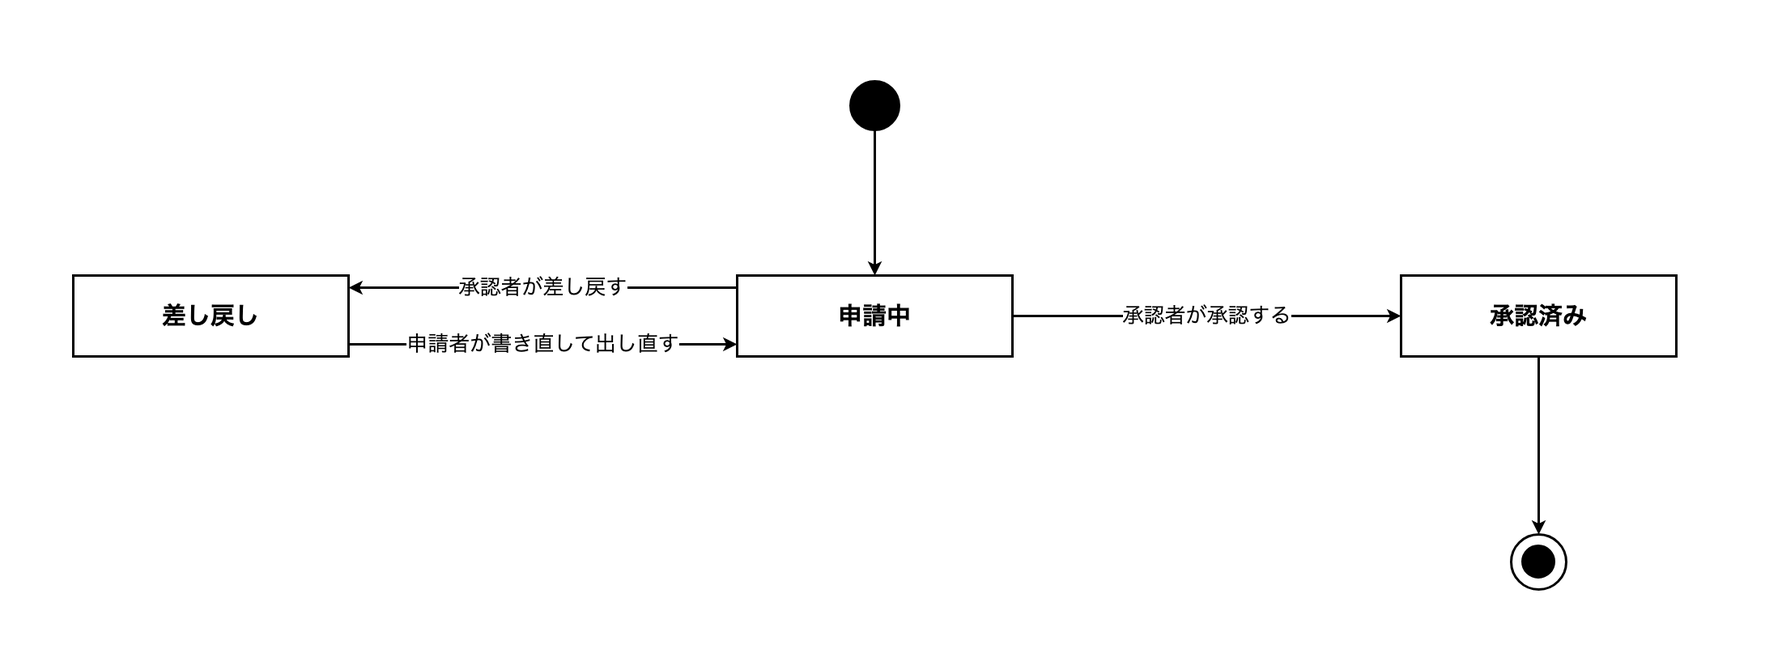
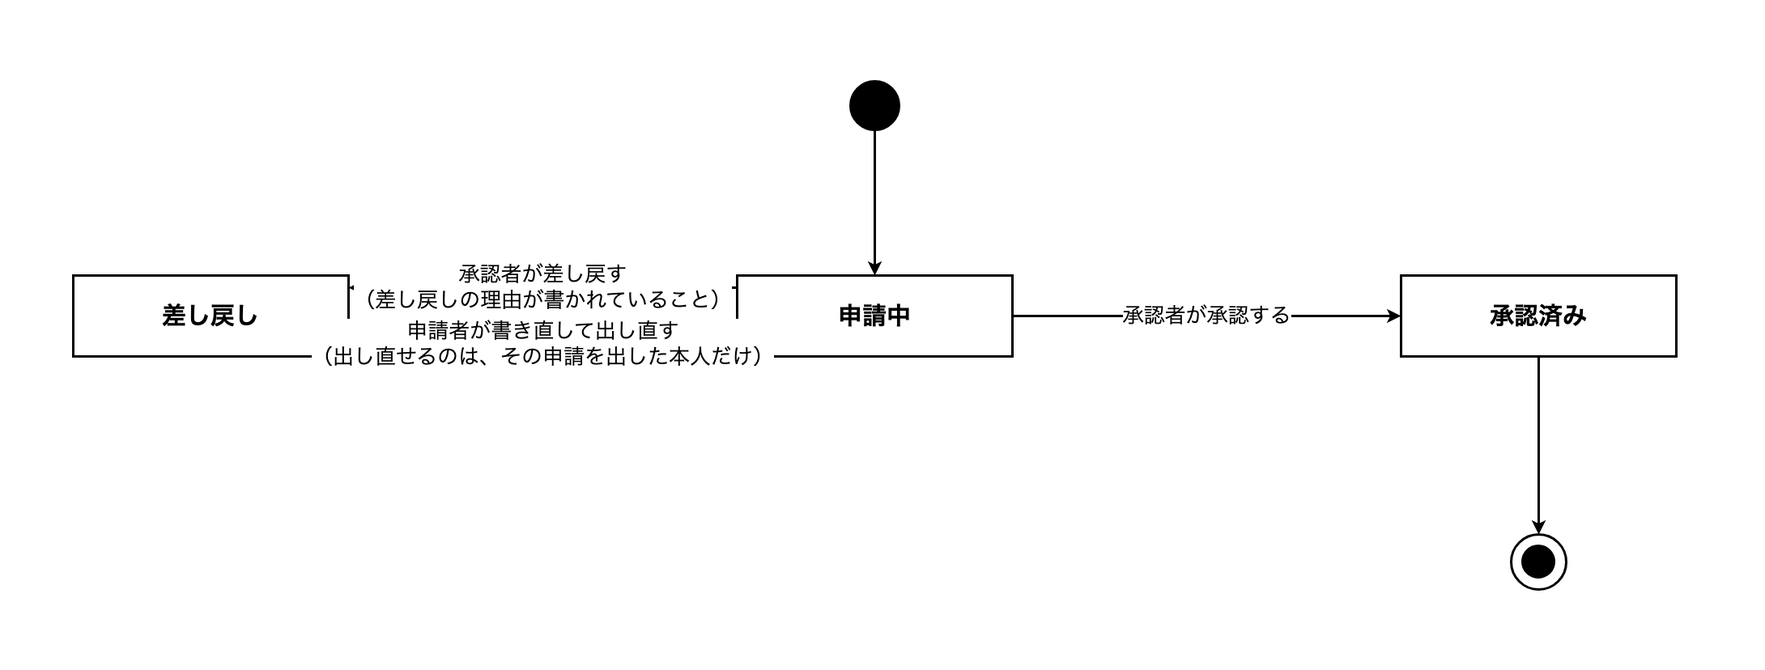
13, 15: 独立レビューの指摘49件を反映
6体（事実照合3・学習者役3）が実ファイルのみを根拠に検証した結果を反映した。
🔴4件・🟡25件・🔵20件のうち、実物と照合して指摘が正しかったものを直した。

🔴（受講生が実際に詰まるもの）:
- 13-3-2 が 13-3-1 の答えと矛盾していた。13-3-1 は画面を5枚と数えるのに
  13-3-2 が「ルートは5本ですが画面は5枚ではありません」と書いており、
  正しく5枚と数えた受講生が「間違っている」と言われる形だった。
  数の対比をやめ、集合の違い（ログイン・登録画面が抜け、PUT/DELETE は
  画面ではない）を言う文に差し替えた
- 13-7-1 の「app/ の中には5つのクラスがあります」が実物と違った
  （実際は28個）。描く手順と同じ3フォルダに範囲を限定した
- T15 の CLAUDE.md の見本と模範例に「投稿の作成」が入っていた。
  スターターに投稿作成機能は無い（ルートは index/edit/update/destroy の4本）
- 15-4-1 の `*` の説明が、リポジトリ内の実測記録と食い違っていた

🟡 の主なもの:
- 13-1-2 が予告する「モジュール構成図」が Chapter 7 に存在しなかった
  （実際は「構造図」）。呼び名を統一した
- 13-6-3 の確認事項リストの ID が Q-05 で、13-2-1 の解答例と衝突していた
  （Q-06 が正）
- 13-8-1 の TC-01 が「元になった設計書」に権限マトリクスを指していたが、
  その表にトップページの行は無い。13-3-1 の画面一覧 SC-01 に差し替えた
- 13-8-3 の模範ER図が「0件または1件」の記号を使っているのに、13-5-2 が
  教える記号は3つだけだった。テーブル定義書の approver_id に NOT NULL が
  無いことと整合するのは記号側なので、13-5-2 の記号表を4つに増やした
- 13-2-2 の 🏃 末尾に手描き方針の再掲が残っていた（散文形のため lint では
  検出されない）。削除した
- 13-5-4 の CRUD 表で F-05 のマスが U だったが、編集画面は今の値を読むので
  R・U が正しい

図2枚を再生成（13-5-2_3 に4つ目の記号、13-8-3_3 の矢印に条件を追加）。

事実照合で一致を確認できたものも多い: routes/web.php の5本、PostController
の4メソッド、PostPolicy の判定、posts の7列、config/fortify.php の home と
resetPasswords、シードの値、Blade のリンクとボタン、図の矢印本数、他 Tutorial
への参照19件の実在と見出し名。導入の第1段落が前節の要約になっている節はゼロ。

T13・T14・T15 の全57節で lint 🔴🟡 ともゼロ。

Changed region(s): [[0.1872, 0.3925, 0.4367, 0.5435]]

diff --git a/curriculums/tutorial-13: システム設計を学ぼう📐/chapter-5: データ設計/13-5-2_ER図と正規化.md b/curriculums/tutorial-13: システム設計を学ぼう📐/chapter-5: データ設計/13-5-2_ER図と正規化.md
@@ -49,6 +49,7 @@
 | 線端の縦二重線 | その端がちょうど1件（1の側） |
 | 線端の丸と三又 | その端が0件以上（多の側） |
 | 線端の縦線と三又 | その端が1件以上（多の側で、0件を許さないとき） |
+| 線端の縦線と丸 | その端が0件または1件（1の側で、相手を指す列が空のことがあるとき） |
 | 線に添えた文 | 両端が何件ずつなのかを、日本語の1文で言い直したもの |
 
 四角の中に書くのは、テーブル名だけです。カラム名も型も書きません。13-3-2で画面遷移図の四角にIDを書かないのと同じで、図に情報を詰めるほど、見たいものが見えなくなります。この図はつながり方を見るためのもので、カラムを書き出すのはテーブル定義書の役目です。
@@ -57,7 +58,7 @@
 
 1. エンティティ一覧の行数ぶん、四角を置きます。中には英語のテーブル名を入れます。日本語のエンティティ名を英語にして複数形にしたものですが、付け方は13-5-3で決めるので、ここでは手を止めずに置いてください。英単語が出てこないときは、辞書や翻訳ツールで調べて構いません。AIに「レッスンは英語で何と言いますか」と聞くのも、言葉についての質問なので問題ありません。
 2. 関係の一覧の行数ぶん、線を引きます。**「1」の側の四角を左（または上）に置く**と、図と表の並びが揃って読みやすくなります。
-3. 引いた線の両端に、記号を付けます。「1」の側が縦の二重線、「多」の側が三又です。三又は、0件があり得るなら丸の付いたもの、1件以上と決めているなら縦線の付いたものを選びます。13-5-1の手順3で「複数の」と「1つ以上の」を書き分けたのが、そのまま記号の選び分けになります。操作は次の「draw.ioで線端の記号を選ぶ」のとおりです。
+3. 引いた線の両端に、記号を付けます。「1」の側が縦の二重線、「多」の側が三又です。三又は、0件があり得るなら丸の付いたもの、1件以上と決めているなら縦線の付いたものを選びます。13-5-1の手順3で「複数の」と「1つ以上の」を書き分けたのが、そのまま記号の選び分けになります。「1」の側で、相手を指す列が空のままになる場面があるなら、縦線と丸を選びます。操作は次の「draw.ioで線端の記号を選ぶ」のとおりです。
 4. 線に、13-5-1の関係の一覧の「読み方」の欄の1文を書き入れます。文が長くて図が読みにくいときは、「1回のレッスンに、複数の申し込み」のように短くしても構いません。ただし、`1対多` とだけ書くのは避けてください。
 5. 多対多の行があれば、その2つの四角の間につなぎ役の四角を1つ置き、両側へ1対多の線を2本引き直します。8-3-3で学んだとおり、多対多の関係は2つの1対多に分けて表します。線に書く文も、「1人の講師は、複数のレッスンとの組を持つ」のように、つなぎ役を相手にした形に書き直します。この四角は13-5-1のエンティティ一覧に行がありませんが、テーブル1つとして数えます。
 
@@ -81,13 +82,13 @@
 
 **手順3: 記号の一覧から選ぶ**
 
-ボタンを押すと、端の形の一覧が開きます。長い一覧で、矢印や丸が上のほうに並び、ER図用の記号は下のほうにあります。この教材で使うのは、次の3つです。
+ボタンを押すと、端の形の一覧が開きます。長い一覧で、矢印や丸が上のほうに並び、ER図用の記号は下のほうにあります。この教材で使うのは、次の4つです。
 
-**ER図で使う3つの記号**
+**ER図で使う4つの記号**
 
 <img alt="13-5-2_3.png" src="../../../image/13-5-2_3.png">
 
-> 💡 **TIP**: 一覧には、縦線が1本だけのものや、丸だけのものも並んでいます。使うのは上の3つだけです。線を引いた向きと記号を付けたい側が食い違ったときは、左右のボタンを入れ替えて選び直してください。
+> 💡 **TIP**: 一覧には、縦線が1本だけのものや、丸だけのものも並んでいます。使うのは上の4つだけです。線を引いた向きと記号を付けたい側が食い違ったときは、左右のボタンを入れ替えて選び直してください。
 
 ---
 
@@ -254,7 +255,7 @@ public function category(): BelongsTo
 ## ✨ まとめ
 
 - ER図は、関係の一覧を1枚に置き直した図です。四角の数はエンティティ一覧の行数と、線の数は関係の一覧の行数と一致します。
-- 四角の中に書くのはテーブル名だけです。線は向きを持たず、両端の記号で件数を表します。縦の二重線がちょうど1件、丸の付いた三又が0件以上、丸の付いていない三又が1件以上です。
+- 四角の中に書くのはテーブル名だけです。線は向きを持たず、両端の記号で件数を表します。縦の二重線がちょうど1件、丸の付いた三又が0件以上、丸の付いていない三又が1件以上、縦線と丸が0件または1件です。
 - draw.ioでは、線を選んで「スタイル」タブの端のボタンを押すと、ER図用の記号を選べます。記号と、日本語の1文の両方を付けます。
 - 多対多は、つなぎ役の四角を1つ置いて、2本の1対多に分けて描きます。この四角は、エンティティ一覧に行がなくてもテーブルとしては必要です。
 - 属性は3つの問いで点検します。通らなかったところは、エンティティの分け方に戻って直します。この観点は、13-5-5のセルフチェックでもう一度使います。

diff --git a/curriculums/tutorial-13: システム設計を学ぼう📐/chapter-8: テスト設計と総合演習/13-8-1_テスト設計-設計の検証としてのテスト.md b/curriculums/tutorial-13: システム設計を学ぼう📐/chapter-8: テスト設計と総合演習/13-8-1_テスト設計-設計の検証としてのテスト.md
@@ -139,7 +139,7 @@
 - 「必須」の欄に必須と書いてある項目からは、その項目を空のまま、または選ばずに送ると受け付けられない、という異常系が1行出ます。部署のTC-05と満足度のTC-10がこれです。
 - 「必須」の欄に任意と書いてある項目からは、空のまま送っても受け付けられる、という正常系が1行出ます。氏名のTC-02と感想のTC-11がこれです。
 - 「文字数・桁数」の欄や「形式・値の範囲」の欄に、受け付ける数の範囲が決めてある項目からは、境界値が2行出ます。氏名のTC-03とTC-04、感想のTC-06とTC-07がこれです。
-- 「形式・値の範囲」の欄に、数ではない決めごとが書いてある項目からは、その形から外れた値を送ると受け付けられない、という異常系が1行出ます。部署と満足度は一覧から選ぶ形なので、画面から操作するかぎり一覧の外は送れません。満足度の「1から5」も、5つの選択肢を並べたものなので、境界値は起こしません。上の表で部署と満足度の行が1行ずつなのは、そのためです。
+- 「形式・値の範囲」の欄に、数ではない決めごとが書いてある項目からは、その形から外れた値を送ると受け付けられない、という異常系が1行出ます。部署と満足度は一覧から選ぶ形なので、画面から操作するかぎり一覧の外は送れません。満足度の「1から5」も、5つの選択肢を並べたものなので、境界値は起こしません。この丸から出る行はありません。上の表にある部署のTC-05と満足度のTC-10は、1つ目の丸から出た行です。
 - 「ほかの項目との関係」の欄に決めごとが書いてある項目は、その関係が守られなかった場合が例外一覧にも現れるので、次の手順3で拾います。
 
 氏名のように2つの欄に決めごとがある項目からは、合わせて3行出ます。
@@ -215,7 +215,7 @@ public function test_the_application_returns_a_successful_response(): void
 
 トップページ（`/`）を開くと、正常を表す `200` が返ることを見ています。ログインしないまま開いていることが、この1本の要点です。もう1つの `tests/Unit/ExampleTest.php` のほうは `assertTrue(true)` だけで、アプリについては何も見ていません。
 
-これを観点表の1行目にしてください。区分は正常系です。「元になった設計書」の欄には、13-4-2で作った権限マトリクスのうち、ログインしていない相手が何を見られるかを決めたところを指す言葉を書きます。
+これを観点表の1行目にしてください。区分は正常系です。「元になった設計書」の欄には、13-3-1で作った画面一覧のうち、トップ画面の行を指す言葉を書きます。ログインしていない人にこの画面が何を見せるのかは、その行の役割の欄が決めています。
 
 このアプリに配られているテストは、これで全部です。新規登録についても、投稿の編集についても、自動で確かめているものは1つもありません。
 
@@ -297,7 +297,7 @@ git push
 
 | ID | 何を確かめるか | 区分 | 元になった設計書 |
 |:---|:---------------|:-----|:-----------------|
-| TC-01 | ログインしていなくても、トップページが開ける | 正常系 | 権限マトリクスの、ログインしていない相手の欄 |
+| TC-01 | ログインしていなくても、トップページが開ける | 正常系 | 画面一覧の SC-01 の行 |
 | TC-02 | 名前・メールアドレス・パスワードをすべて入れて登録すると、ユーザーが1件増える | 正常系 | `CreateNewUser.php` の入力の決めごと |
 | TC-03 | 名前を空のまま登録しようとすると、登録されない | 異常系 | `CreateNewUser.php` の `name` の必須 |
 | TC-04 | 名前が255文字なら、登録される | 境界値 | `CreateNewUser.php` の `name` の上限 |
@@ -349,7 +349,7 @@ TC-02からTC-08までの欄には、設計書の名前が1つも入っていま
 
 **トップページの1行を残した理由**
 
-配られたテストが確かめている唯一のことなので、観点表から落とすと「いま何が確かめられているか」が表から消えます。この行だけは、手元の権限マトリクスを指せます。
+配られたテストが確かめている唯一のことなので、観点表から落とすと「いま何が確かめられているか」が表から消えます。この行だけは、手元の設計書を指せます。13-4-2で作った権限マトリクスには、トップページにあたる行がありません。ログインしていない人がこの画面で何を見るのかを決めているのは、13-3-1で作った画面一覧の SC-01 の役割の欄です。
 
 </details>
 

diff --git a/curriculums/tutorial-13: システム設計を学ぼう📐/chapter-4: APIと権限の設計/13-4-1_API設計-エンドポイントと入出力.md b/curriculums/tutorial-13: システム設計を学ぼう📐/chapter-4: APIと権限の設計/13-4-1_API設計-エンドポイントと入出力.md
@@ -26,7 +26,7 @@
 >
 > 講師がその日の授業ごとに出欠を登録できて、事務が登録された記録をまとめて見られて、保護者の方にはご自分のお子さんの記録をご覧いただける。そんな仕組みにしたいです。
 
-画面設計までは済んでいるとします。講師は、その日の授業が並ぶ画面から授業を1つ選び、出席予定の生徒に出欠を付けます。付けたあとの出欠は、同じ画面で選び直して保存できます。事務と保護者は、それぞれ記録を見る画面を開きます。ここから起こしたエンドポイント一覧が、次の表です。
+画面設計までは済んでいて、画面は授業一覧画面・出欠登録画面・出欠記録画面の3枚です。講師は、その日の授業が並ぶ授業一覧画面から授業を1つ選び、出欠登録画面で出席予定の生徒に出欠を付けます。付けたあとの出欠は、同じ画面で選び直して保存できます。事務と保護者は、それぞれ出欠記録画面を開きます。ここから起こしたエンドポイント一覧が、次の表です。
 
 | ID | メソッド | エンドポイント | 何をするか | 認証 |
 |:---|:---------|:---------------|:-----------|:-----|
@@ -92,7 +92,7 @@
 1. この画面を映すために、どこかから取りに行くものはあるか。
 2. この画面から、どこかへ送るものはあるか。
 
-学習塾の例なら、講師が最初に開く画面の授業の一覧（API-01）と、選んだ授業の出席予定の生徒（API-02）が取りに行くもので、出欠の保存（API-03）と、付けたあとの訂正（API-04）が送るものです。事務と保護者が開く記録を見る画面にも、取りに行くものが1つあります（API-05）。
+学習塾の例なら、授業一覧画面が取りに行くのは、その日の授業の一覧（API-01）です。出欠登録画面は、出席予定の生徒を取りに行き（API-02）、付けた出欠（API-03）と、付けたあとの訂正（API-04）を送ります。事務と保護者が開く出欠記録画面にも、取りに行くものが1つあります（API-05）。画面は3枚でも、入口は5つになります。
 
 この問いを飛ばして数え始めると、画面には映っているのに取りに行く先が決まっていない項目が残ります。実装が始まってから「この一覧はどこから来るのですか」と聞かれる箇所です。
 
@@ -160,9 +160,11 @@
 
 コードを読むだけなので、Dockerは起動しなくて構いません。VS Codeで `~/laravel-practice/post-app-practice` を開いて始めてください。
 
-### Step 1: ルートを読んで、入口を数える
+### Step 1: 画面をたどってから、ルートを読む
 
-`routes/web.php` を開きます。
+先に、13-3-2で描いた投稿アプリの画面遷移図を開きます。四角を1つずつたどり、書き方の手順1の2つの問いを投げて、「取りに行くもの」と「送るもの」に印を付けてください。
+
+印が付いたら、`routes/web.php` を開きます。
 
 ```php
 // routes/web.php
@@ -185,11 +187,15 @@ Route::middleware('auth')->group(function () {
 
 13-2-1で確かめたとおり、ログインと新規登録のルートはこのファイルに書かれていません。Fortifyが登録しているものです。この2つはエンドポイント一覧にも載せません。どうやってログインしてもらうのかという方式を、この教材では決めないからです。
 
+最後に、画面遷移図に付けた印と、この4本を突き合わせてください。
+
 ### Step 2: エンドポイント一覧に組み替える
 
 4本を、`ID`・`メソッド`・`エンドポイント`・`何をするか`・`認証` の5列に組み替えます。IDは `API-01` から振ります。
 
 1本だけ、そのまま写せない行があります。`GET /posts/{post}/edit` は、編集画面のHTMLを返すためのルートです。APIには画面がないので、「編集画面を出す」という書き方はできません。この入口が本当は何のためにあるのかを、`PostController` の `edit()` を読んで考えてください。
+
+`edit()` が編集画面へ渡しているものは、投稿1件だけではありません。Step 1で画面遷移図に付けた印と見比べて、渡しているもう1つを、APIに作り直したあとはどこから取りに行くのかも確かめてください。
 
 「認証」の欄は、Step 1で見たルートの書かれ方から4行とも決まります。
 

diff --git a/curriculums/tutorial-13: システム設計を学ぼう📐/chapter-5: データ設計/13-5-4_CRUD表.md b/curriculums/tutorial-13: システム設計を学ぼう📐/chapter-5: データ設計/13-5-4_CRUD表.md
@@ -107,7 +107,7 @@ Chapter 2で作った機能一覧の機能名を、IDごとそのまま写しま
 
 列は、13-5-1で作ったエンティティ一覧の3行（ユーザー・カテゴリ・投稿）です。日本語のままにします。
 
-マスを埋めるときの手がかりは、コントローラーにあります。`app/Http/Controllers/PostController.php` の4つのメソッドを開いて、どのモデルを呼んでいるかを見てください。ユーザー登録・ログイン・ログアウトの処理はこのファイルにありませんが、それぞれ何と照合し、何を作るのかを考えれば、触るデータは決まります。
+マスを埋めるときの手がかりは、コントローラーにあります。`app/Http/Controllers/PostController.php` の4つのメソッドを開いて、どのモデルを呼び、どのモデルを画面へ渡しているかを見てください。ユーザー登録・ログイン・ログアウトの処理はこのファイルにありませんが、それぞれ何と照合し、何を作るのかを考えれば、触るデータは決まります。
 
 ### Step 3: 縦に読んで、空を探す
 
@@ -135,7 +135,7 @@ git push origin main
 | F-02 ログイン | R | - | - |
 | F-03 ログアウト | - | - | - |
 | F-04 投稿の一覧表示 | R | R | R |
-| F-05 投稿の編集 | - | R | U |
+| F-05 投稿の編集 | - | R | R・U |
 | F-06 投稿の削除 | - | - | D |
 
 F-04でユーザーとカテゴリをRにしている根拠は、一覧を組み立てているこの1行です。
@@ -147,14 +147,20 @@ $posts = Post::with(['user', 'category'])->latest()->get();
 
 `with(['user', 'category'])` と書かれているとおり、投稿と一緒にユーザーとカテゴリも読んでいます。画面には投稿者の名前とカテゴリの名前が出るので、9-5-3「Eager Loadingとレイジーローディング」で学んだこの書き方で、まとめて取ってきています。
 
-F-05でカテゴリをRにしている根拠は、編集画面を出すこの1行です。
+F-05で投稿とカテゴリの両方をRにしている根拠は、編集画面を出す `edit()` です。
 
 ```php
 // app/Http/Controllers/PostController.php の edit() から抜粋
-$categories = Category::orderBy('id')->get();
+public function edit(Post $post)
+{
+    // ...
+    $categories = Category::orderBy('id')->get();
+
+    return view('posts.edit', compact('post', 'categories'));
+}
 ```
 
-カテゴリのプルダウンに選択肢を並べるために、カテゴリを全件読んでいます。
+カテゴリを全件読んでいるのは、プルダウンに選択肢を並べるためです。投稿のほうも、いま入っているタイトルと本文を編集画面に映すために、`view()` へ渡しています。どちらも画面に出すための読みなので、Rに数えます。書き換える相手を探すためだけの読みではありません。
 
 **表の下に書く2〜3文（解答例）**
 
@@ -175,7 +181,7 @@ $categories = Category::orderBy('id')->get();
 
 **投稿にCが無いのが、間違いではない理由**
 
-`routes/web.php` に並んでいるのは、一覧・編集画面・更新・削除の4本だけです。投稿を作るルートがありません。表示されている4件は、`database/seeders/DatabaseSeeder.php` があらかじめ入れたものです。このアプリは認可（Policy）の練習のために配られたもので、作る機能を省くと最初から決まっていました。CRUD表は間違い探しの表ではないので、Cが無いこと自体は問題になりません。実際の仕事でこの表を作れば、「投稿を書く画面はどこですか」という質問が、実装が始まる前に1回で出てきます。それが目的です。
+`routes/web.php` の投稿に関するルートは、一覧・編集画面・更新・削除の4本だけです。投稿を作るルートがありません。表示されている4件は、`database/seeders/DatabaseSeeder.php` があらかじめ入れたものです。このアプリは認可（Policy）の練習のために配られたもので、作る機能を省くと最初から決まっていました。CRUD表は間違い探しの表ではないので、Cが無いこと自体は問題になりません。実際の仕事でこの表を作れば、「投稿を書く画面はどこですか」という質問が、実装が始まる前に1回で出てきます。それが目的です。
 
 **カテゴリにRしか無い理由**
 

diff --git a/curriculums/tutorial-15: AI開発を仕組み化しよう⚙/chapter-2: プロジェクトの記憶（CLAUDE.md）/15-2-2_育て方と刈り方-長すぎると守られなくなる.md b/curriculums/tutorial-15: AI開発を仕組み化しよう⚙/chapter-2: プロジェクトの記憶（CLAUDE.md）/15-2-2_育て方と刈り方-長すぎると守られなくなる.md
@@ -67,14 +67,17 @@
 
 刈り方の前に、足し方も決めておきます。思いついた順に足すと、太るのはあっという間です。
 
-足したいことができたときは、ファイルを開いて自分で書きます。書き足す引き金は、次の2つだけにしてください。公式ドキュメントが挙げているものと同じで、下の2つ目は、15-1-1「毎回手でやっていたこと」で `CLAUDE.md` を行き先にした「このアプリの前提」がまさにそれです。
+足したいことができたときは、ファイルを開いて自分で書きます。書き足す引き金は、次の3つだけにしてください。上の2つは公式ドキュメントが挙げているものと同じで、2つ目は、15-1-1「毎回手でやっていたこと」で `CLAUDE.md` を行き先にした「このアプリの前提」がまさにそれです。
 
 | 引き金 | 足す1行 |
 |:--|:--|
 | 同じ間違いを**2回目**にされた | その間違いを防ぐ決めごとを1行 |
 | 前のセッションで打った説明を、また打っている | その説明を1行 |
+| `/clear` したAIに聞いて、答えが返ってこなかった | 答えの根拠になる決めごとを1行 |
 
-1回目では足しません。1回きりのことは、次に起きるとは限らないからです。2回目に起きたことは、3回目も起きます。ここが線です。
+上の2つでは、1回目では足しません。1回きりのことは、次に起きるとは限らないからです。2回目に起きたことは、3回目も起きます。ここが線です。
+
+3つ目は、入り方が上の2つと違います。間違えられるのを待たずに、書き漏らしのほうを先に見つけます。書いたつもりの決めごとが本当に書いてあるかは、`/clear` を打ってから聞けば分かります（15-2-3）。
 
 足すときに、もう1つ守ることがあります。**古い行を消してから、新しい行を足す**。⑥で見たとおりです。「日本語にする」と決め直したなら、「英語のままでよい」の行はその場で消します。
 
@@ -108,7 +111,7 @@
 # CLAUDE.md
 
 投稿管理アプリです。Laravel を Sail（Docker）で動かしています。
-投稿の一覧・作成・編集・削除、投稿へのコメントができます。
+投稿の一覧・編集・削除、投稿へのコメントができます。
 いま `posts.status`（下書きと公開）の移行作業中です。移行が終わるまで、投稿一覧の並び順は触らないでください。
 
 ## このプロジェクトについて
@@ -264,7 +267,7 @@ php artisan test                                     # テストを実行する
 # CLAUDE.md
 
 投稿管理アプリです。Laravel を Sail（Docker）で動かしています。
-投稿の一覧・作成・編集・削除、投稿へのコメント、下書きと公開の切り替えができます。
+投稿の一覧・編集・削除、投稿へのコメント、下書きと公開の切り替えができます。
 機能ごとの設計書は `docs/` の中にあります（例: `docs/comment.md`）。
 
 ## よく使うコマンド
@@ -332,7 +335,7 @@ php artisan test                                     # テストを実行する
 - `CLAUDE.md` は長さに関係なく最後まで読まれます。長いと守られにくくなるのは、大事なルールが埋もれるからです。
 - 2026年8月時点の公式ドキュメントでは、200行以下が目安とされています。超えたら壊れる線ではなく、従われにくくなる目安です。
 - 消すかどうかは「この1行を消したら、AIは間違えますか」で決めます。迷ったら、いつの話か・コードを開けば分かるか・他の紙にも書いてあるかを当てます。
-- 足すのは、同じ間違いを2回目にされたときと、前のセッションで打った説明をまた打っているときだけです。
+- 足す引き金は3つです。同じ間違いを2回目にされたとき、前のセッションで打った説明をまた打っているとき、`/clear` したAIが答えられなかったときです。
 - 食い違う行を2つ並べません。新しい行を足すときは、古い行をその場で消します。
 
 ---

diff --git a/curriculums/tutorial-13: システム設計を学ぼう📐/chapter-3: 画面設計/13-3-1_画面一覧.md b/curriculums/tutorial-13: システム設計を学ぼう📐/chapter-3: 画面設計/13-3-1_画面一覧.md
@@ -120,7 +120,7 @@ Route::middleware('auth')->group(function () {
 
 5つのBladeファイルを順に開き、`<h1>` の文字と、その下に並んでいるものを読み取ります。役割の欄に書く1文の材料になります。
 
-`welcome.blade.php` だけは、`@auth` と `@else` で中身が2つに分かれています。ログインしている人に映るものと、していない人に映るものが、1つのファイルの中に両方書かれています。この画面を何行として数えるかは、自分で決めてください。決めた理由を言えるようにしておくと、答え合わせで見比べられます。
+`welcome.blade.php` だけは、`@auth` と `@else` で中身が2つに分かれています。ログインしている人に映るものと、していない人に映るものが、1つのファイルの中に両方書かれています。この画面は1行として数えます。開くURLも画面ファイルも1つで、利用者から見れば同じ画面の中身が入れ替わっているだけだからです。役割の欄には、両方の中身を書きます。
 
 ### Step 2: 画面一覧を作る
 
@@ -169,11 +169,12 @@ git push origin main
 - [ ] どの行にも役割が1文で書かれている
 - [ ] IDが `SC-01` から順に振られている
 - [ ] 最初に開く画面が1つ決まっていて、役割の欄に書き添えられている
-- [ ] `/posts` への `PUT` と `DELETE` を、画面として数えていない
+- [ ] `/posts/{post}` への `PUT` と `DELETE` を、画面として数えていない
 
-設計に唯一の正解はありません。画面名の付け方や並び順が解答例と違っていても、上の観点を満たしていれば合格です。そのうえで、判断が分かれやすい3点を補足します。
+設計に唯一の正解はありません。画面名の付け方や並び順が解答例と違っていても、上の観点を満たしていれば合格です。そのうえで、判断が分かれやすい4点を補足します。
 
-- **トップ画面を1行にした理由**: `@auth` と `@else` で映るものは変わりますが、開くURLは `/` の1本で、画面ファイルも1つです。利用者から見ても、同じ画面の中身が入れ替わっているだけです。そこで1行にまとめ、役割の欄に両方の中身を書きました。2行に分ける設計もあり得ますが、その場合は、どちらを最初に開く画面にするかを決め直すことになります。
+- **「トップ画面」という名前にした理由**: 書き方の手順2では「トップ」「ホーム」のような名前を避けると書きました。この画面は `@auth` で映るものが入れ替わるので、何が映るかを一語で言い表せません。そこだけ例外として「トップ画面」としています。`welcome.blade.php` の `<h1>` にある「認可スターター」は、このスターターキットの呼び名であって画面に映るものを表していないので、名前には採りません。
+- **2行に分ける設計との違い**: トップ画面を、ログイン前とログイン後の2行に分ける設計もあり得ます。その場合は、どちらを最初に開く画面にするかを決め直すことになります。この教材では、Step 1のとおり1行で通します。
 - **主な利用者を全部「利用者」にした理由**: ログインしているかどうかは、その画面を開ける条件であって、別の種類の利用者ではありません。このアプリを使う人は1種類です。誰がどの画面を開けるかは、13-4-2で権限マトリクスとして表にします。
 - **パスワード再設定の画面を入れなかった理由**: Fortifyの設定でパスワード再設定の機能が有効になっているので、`/forgot-password` のようなURLは登録されています。ところが、そこで映すBladeファイルがこのアプリには置かれていないため、開くとエラーになります。画面一覧に並べるのは、いま映るものだけです。
 
